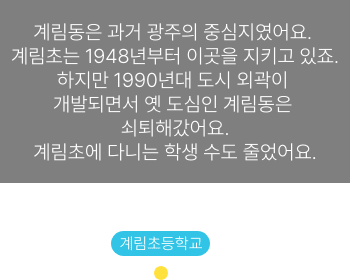
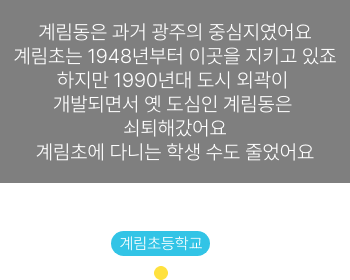
remove img with img has no dots

diff --git a/2_gyerim/index.html b/2_gyerim/index.html
@@ -111,7 +111,7 @@
           <span data-inviewport class="font-bold">어린이는</span>
           <span data-inviewport class="font-bold">성인보다</span>
           <span data-inviewport class="font-bold">시야가</span>
-          <span data-inviewport class="font-bold">좁아요.</span>
+          <span data-inviewport class="font-bold">좁아요</span>
           <br class="high-break-up" />
           <span data-inviewport class="font-bold">어디서</span>
           <span data-inviewport class="font-bold">소리가</span>
@@ -149,7 +149,7 @@
           <span data-inviewport class="font-bold">알아서</span>
           <span data-inviewport class="font-bold">멈출거라</span>
           <span data-inviewport class="font-bold">생각하기도</span>
-          <span data-inviewport class="font-bold">해요.</span>
+          <span data-inviewport class="font-bold">해요</span>
           <br class="high-break-up" />
           <span data-inviewport class="font-bold">교통</span>
           <span data-inviewport class="font-bold">약자인</span>
@@ -179,7 +179,7 @@
           <span data-inviewport class="font-bold">멈출거라</span>
           <br class="high-break-up" />
           <span data-inviewport class="font-bold">생각하기도</span>
-          <span data-inviewport class="font-bold">해요.</span>
+          <span data-inviewport class="font-bold">해요</span>
           <!-- <br class="high-break-up" /> -->
           <span data-inviewport class="font-bold">교통</span>
           <span data-inviewport class="font-bold">약자인</span>
@@ -201,7 +201,7 @@
           <br class="mobile-break" />
           <span data-inviewport class="font-bold">도시개발과도</span>
           <span data-inviewport class="font-bold">관련돼</span>
-          <span data-inviewport class="font-bold">있습니다.</span>
+          <span data-inviewport class="font-bold">있습니다</span>
           <br class="high-break-up" />
           <span data-inviewport class="font-bold">최근</span>
           <span data-inviewport class="font-bold">계획·조성된</span>
@@ -280,25 +280,8 @@
           <div id="yellow-point1-mobile" class="mobile-display">
             <img data-src="public/images/09_text.png" loading="lazy" />
           </div>
-          <div
-            id="satellite-title-1"
-            class="opacity-box bg-opacity-5 center-top text-center pc-display"
-          >
-            <span class="text-white-big"
-              ><span class="one-line"
-                >계림동은 과거 광주의 중심지였어요. 계림초는 1948년부터 이곳을
-                지키고 있죠.</span
-              ><br />
-              <span class="one-line"
-                >하지만 1990년대 도시 외곽이 개발되면서 옛 도심인 계림동은
-                쇠퇴해갔어요.</span
-              >
-              <br />
-              <span class="one-line">계림초에 다니는 학생 수도 줄었어요</span>
-            </span>
-          </div>
           <div id="yellow-point1" class="pc-display">
-            <img data-src="public/images/yellow-point.png" loading="lazy" />
+            <img data-src="public/images/09_text_pc.png" loading="lazy" />
           </div>
         </div>
       </section>
@@ -389,7 +372,7 @@
           <span data-inviewport>옛 도심의</span>
           <span data-inviewport>모습처럼</span>
           <span data-inviewport>낡아</span>
-          <span data-inviewport>있었어요.</span>
+          <span data-inviewport>있었어요</span>
           <br />
           <br />
           <span data-inviewport>이곳 학생</span>
@@ -425,7 +408,7 @@
           <span data-inviewport>모습처럼</span>
           <span data-inviewport>낡아</span>
           <br class="high-break-up" />
-          <span data-inviewport>있었어요.</span>
+          <span data-inviewport>있었어요</span>
           <span data-inviewport>이곳 학생</span>
           <span data-inviewport>10명 중</span>
           <span data-inviewport>8명은</span>
@@ -439,7 +422,7 @@
           <span data-inviewport>보호자</span>
           <span data-inviewport>없이 혼자</span>
           <span data-inviewport>등·하교를</span>
-          <span data-inviewport>해요.</span>
+          <span data-inviewport>해요</span>
           <br />
           <span data-inviewport>자연히</span>
           <span data-inviewport>통학로가</span>
@@ -462,7 +445,7 @@
           <h1 class="text-dark-big revealUp">
             이영희 광주 동구청
             <br class="mobile-break" />
-            계장은 말합니다.
+            계장은 말합니다
           </h1>
           <img
             class="portrait"
@@ -486,7 +469,7 @@
               <br class="mobile-break" />
               <span data-inviewport>통행량도</span>
               <span data-inviewport>많이</span>
-              <span data-inviewport>증가했어요.</span>
+              <span data-inviewport>증가했어요</span>
               <br class="very-high-break-down" />
               <span data-inviewport class="font-bold">그래서</span>
               <span data-inviewport class="font-bold">안심할</span>
@@ -547,12 +530,12 @@
           <span data-inviewport>간선도로와</span>
           <span data-inviewport>석벽</span>
           <span data-inviewport>사이에</span>
-          <span data-inviewport>있어요.</span>
+          <span data-inviewport>있어요</span>
           <br class="very-high-break-down" />
           <span data-inviewport>이 통학로에</span>
           <span data-inviewport><b>‘계림도담길’</b>이라는</span>
           <span data-inviewport>이름을</span>
-          <span data-inviewport>지어줬어요.</span>
+          <span data-inviewport>지어줬어요</span>
           <br />
           <span data-inviewport>아이들에게</span>
           <span data-inviewport>거대한</span>
@@ -577,13 +560,13 @@
           <span data-inviewport>간선도로와</span>
           <span data-inviewport>석벽</span>
           <span data-inviewport>사이에</span>
-          <span data-inviewport>있어요.</span>
+          <span data-inviewport>있어요</span>
           <br class="very-high-break-down" />
           <span data-inviewport>이 통학로에</span>
           <span data-inviewport><b>‘계림도담길’</b>이라는</span>
           <span data-inviewport>이름을</span>
           <br class="mobile-break" />
-          <span data-inviewport>지어줬어요.</span>
+          <span data-inviewport>지어줬어요</span>
           <br />
           <span data-inviewport>아이들에게</span>
           <span data-inviewport>거대한</span>
@@ -618,7 +601,7 @@
           <br class="mobile-break" />
           <span data-inviewport><b>할 길</b>이라는</span>
           <span data-inviewport>의미를</span>
-          <span data-inviewport>담았어요.</span>
+          <span data-inviewport>담았어요</span>
           <br class="very-high-break-down" />
           <br class="very-high-break-down" />
           <span data-inviewport>계림도담길에</span>
@@ -634,7 +617,7 @@
           <span data-inviewport class="font-bold">밖에서도</span>
           <span data-inviewport class="font-bold">쉼터 안이</span>
           <span data-inviewport class="font-bold">보이도록</span>
-          <span data-inviewport>만들었죠.</span>
+          <span data-inviewport>만들었죠</span>
           <br />
           <span data-inviewport>청소년</span>
           <span data-inviewport>범죄에</span>
@@ -656,7 +639,7 @@
           <span data-inviewport><b>할 길</b>이라는</span>
           <br class="mobile-break" />
           <span data-inviewport>의미를</span>
-          <span data-inviewport>담았어요.</span>
+          <span data-inviewport>담았어요</span>
           <br class="very-high-break-down" />
           <span data-inviewport>계림도담길에</span>
           <span data-inviewport>설치한</span>
@@ -671,7 +654,7 @@
           <span data-inviewport class="font-bold">밖에서도</span>
           <span data-inviewport class="font-bold">쉼터 안이</span>
           <span data-inviewport class="font-bold">보이도록</span>
-          <span data-inviewport>만들었죠.</span>
+          <span data-inviewport>만들었죠</span>
           <br />
           <span data-inviewport>청소년</span>
           <span data-inviewport>범죄에</span>
@@ -731,7 +714,7 @@
           <div class="h-three">
             <h1 class="text-dark-big fly-btm-left revealUp font-bold">
               계림초 통학로를
-              <br class="mobile-break" />디자인한 정성구 총감독은 말해요.
+              <br class="mobile-break" />디자인한 정성구 총감독은 말해요
             </h1>
           </div>
           <div class="section-16 parallax-70 mobile-talking-guy-parallax">
@@ -749,7 +732,7 @@
                 <br class="mobile-break" />
                 <span data-inviewport>완전하게</span>
                 <span data-inviewport>분리하긴</span>
-                <span data-inviewport>어려웠어요.</span>
+                <span data-inviewport>어려웠어요</span>
                 <br />
                 <span data-inviewport>대신 차량</span>
                 <span data-inviewport>운전자가</span>
@@ -858,7 +841,7 @@
           <span data-inviewport class="font-bold">있어</span>
           <span data-inviewport class="font-bold">차량이</span>
           <span data-inviewport class="font-bold">과속하기</span>
-          <span data-inviewport class="font-bold">쉬워요.</span>
+          <span data-inviewport class="font-bold">쉬워요</span>
           <br />
           <span data-inviewport class="font-bold">맞은</span>
           <span data-inviewport class="font-bold">편에 또</span>
@@ -914,7 +897,7 @@
           <br class="mobile-break" />
           <span data-inviewport><b>횡단보도</b>를</span>
           <span data-inviewport class="font-bold">3개</span>
-          <span data-inviewport><b>설치</b>했어요.</span>
+          <span data-inviewport><b>설치</b>했어요</span>
           <br />
           <span data-inviewport>기존에</span>
           <span data-inviewport>있던</span>
@@ -956,7 +939,7 @@
         <div class="flex-col m-auto h-screen py-100 flex-center">
           <h1 class="text-dark-big revealUp">
             인근에서 아이를
-            <br class="mobile-break" />키우는 한선영씨는 말합니다.
+            <br class="mobile-break" />키우는 한선영씨는 말합니다
           </h1>
           <img
             class="portrait my-100"
@@ -986,7 +969,7 @@
               <span data-inviewport>차량들이</span>
               <br class="mobile-break" />
               <span data-inviewport>많아 걱정이</span>
-              <span data-inviewport>많이 됐었죠.</span>
+              <span data-inviewport>많이 됐었죠</span>
               <br />
               <span data-inviewport>하지만</span>
               <span data-inviewport>예전보다</span>
@@ -1047,7 +1030,7 @@
           <br class="mobile-break" />
           <span data-inviewport>아이들의</span>
           <span data-inviewport>눈길을</span>
-          <span data-inviewport>사로 잡아요.</span>
+          <span data-inviewport>사로 잡아요</span>
           <br class="very-high-break-down" />
           <span data-inviewport>등하교 시간에</span>
           <span data-inviewport>후문 통학로</span>
@@ -1066,7 +1049,7 @@
           <br class="mobile-break" />
           <span data-inviewport>신호등을</span>
           <span data-inviewport>잘 보지</span>
-          <span data-inviewport>못해요.</span>
+          <span data-inviewport>못해요</span>
           <br class="very-high-break-up" />
           <span data-inviewport>바닥 LED</span>
           <span data-inviewport>점멸 신호등은</span>
@@ -1087,7 +1070,7 @@
           <br class="mobile-break" />
           <span data-inviewport>아이들의</span>
           <span data-inviewport>눈길을</span>
-          <span data-inviewport>사로 잡아요.</span>
+          <span data-inviewport>사로 잡아요</span>
           <br class="very-high-break-down" />
           <span data-inviewport>등하교 시간에</span>
           <span data-inviewport>후문 통학로</span>
@@ -1106,7 +1089,7 @@
           <br class="mobile-break" />
           <span data-inviewport>신호등을</span>
           <span data-inviewport>잘 보지</span>
-          <span data-inviewport>못해요.</span>
+          <span data-inviewport>못해요</span>
           <br class="very-high-break-up" />
           <span data-inviewport>바닥 LED</span>
           <span data-inviewport>점멸 신호등은</span>
@@ -1150,7 +1133,7 @@
           <h1 class="text-dark-big revealUp">
             어머니와 함께 등교한
             <br class="mobile-break" />
-            계림초 2학년 김주아양은 말해요.
+            계림초 2학년 김주아양은 말해요
           </h1>
           <img
             class="portrait my-100"
@@ -1170,7 +1153,7 @@
               <span data-inviewport class="font-bold">빨간색인지</span>
               <br class="mobile-break" />
               <span data-inviewport class="font-bold">알 수 있을</span>
-              <span data-inviewport class="font-bold">것 같아요.</span>
+              <span data-inviewport class="font-bold">것 같아요</span>
               <br />
               <span data-inviewport>신기하기도</span>
               <span data-inviewport>하고,</span>
@@ -1220,7 +1203,7 @@
           <span data-inviewport>앞으로</span>
           <span data-inviewport>해야 할</span>
           <span data-inviewport>일이 더</span>
-          <span data-inviewport>있어요.</span>
+          <span data-inviewport>있어요</span>
           <br />
           <span data-inviewport>아이들을</span>
           <span data-inviewport>차로 태우고</span>
@@ -1235,7 +1218,7 @@
           <br class="mobile-break" />
           <span data-inviewport>심해진다는</span>
           <span data-inviewport>우려가</span>
-          <span data-inviewport>있었어요.</span>
+          <span data-inviewport>있었어요</span>
           <br />
           <span data-inviewport>대신,</span>
           <span data-inviewport class="font-bold">학교 내부</span>
@@ -1259,7 +1242,7 @@
           <span data-inviewport>앞으로</span>
           <span data-inviewport>해야 할</span>
           <span data-inviewport>일이 더</span>
-          <span data-inviewport>있어요.</span>
+          <span data-inviewport>있어요</span>
           <br />
           <span data-inviewport>아이들을</span>
           <span data-inviewport>차로 태우고</span>
@@ -1271,7 +1254,7 @@
           <span data-inviewport>교통혼잡이</span>
           <span data-inviewport>심해진다는</span>
           <span data-inviewport>우려가</span>
-          <span data-inviewport>있었어요.</span>
+          <span data-inviewport>있었어요</span>
           <span data-inviewport>대신,</span>
           <br />
           <span data-inviewport class="font-bold">학교 내부</span>

diff --git a/2_gyerim/styles.css b/2_gyerim/styles.css
@@ -279,6 +279,11 @@ button {
   font-weight: 300;
   text-align: left;
   color: #fff;
+  /* padding: 12px 17px; */
+}
+
+.section-22 .fly-text,
+.section-24 .fly-text {
   padding: 12px 17px;
 }
 
@@ -936,7 +941,7 @@ h1.fly-text span:nth-child(37)[data-inviewport].is-inViewport {
 
 #yellow-point1 {
   position: absolute;
-  top: 43%;
+  top: 26%;
   left: 50%;
   transform: translate(-50%, -50%);
 }

diff --git a/1_gm/styles/02.css b/1_gm/styles/02.css
@@ -279,7 +279,7 @@ button {
   font-weight: 300;
   text-align: left;
   color: #fff;
-  padding: 12px 17px;
+  /* padding: 12px 17px; */
 }
 
 .bg-cyan {
